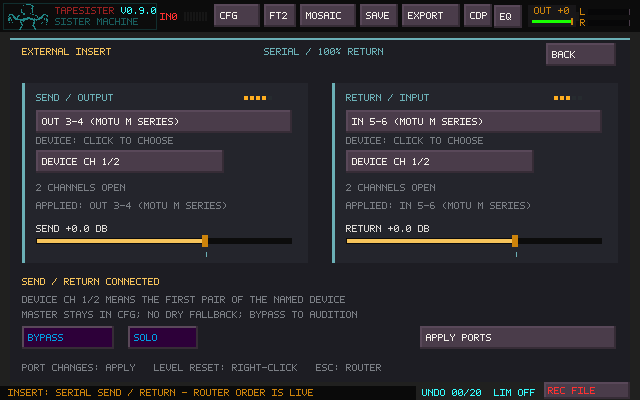
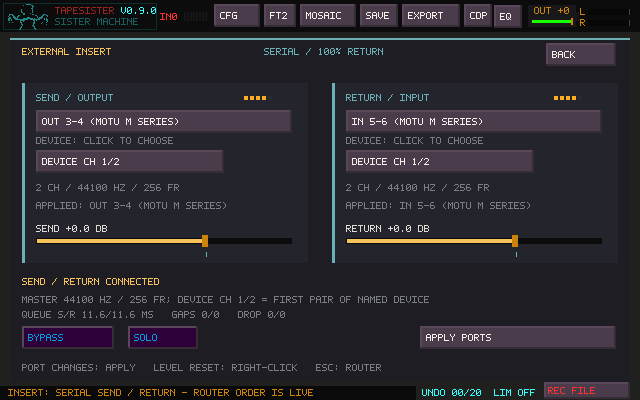
Size Insert queues for both callback bursts and expose stream diagnostics

diff --git a/src/ts_insert.c b/src/ts_insert.c
@@ -27,6 +27,8 @@ void ts_insert_init(TsInsert *s)
     atomic_init(&s->port_ack, 0);
     atomic_init(&s->monitor_port_ack, 0);
     atomic_init(&s->input_channels, 0);
+    atomic_init(&s->return_buffer_frames, 0);
+    atomic_init(&s->output_buffer_frames, 0);
     s->send_gain = s->return_gain = s->send_target = s->return_target = 1;
     ts_insert_prepare(s, 48000);
 }
@@ -37,6 +39,30 @@ void ts_insert_prepare(TsInsert *s, unsigned rate)
     s->sample_rate = rate;
     s->decay = expf(-1.0f / (rate * .15f));
     s->slew = 1.0f - expf(-1.0f / (rate * .01f));
+}
+
+static unsigned bridge_prime(unsigned producer_frames, unsigned consumer_frames,
+                             unsigned producer_rate, unsigned consumer_rate)
+{
+    /* The ring is measured at the producer rate. Either callback may be the
+       larger burst, regardless of the requested buffer size. Two bursts cover
+       their scheduling phase and one late delivery without four-block latency. */
+    uint64_t demand = consumer_rate ?
+        ((uint64_t)consumer_frames * producer_rate + consumer_rate - 1u) / consumer_rate : 0;
+    uint64_t burst = producer_frames > demand ? producer_frames : demand;
+    return burst > TS_INPUT_MONITOR_MAX_PRIME_FRAMES / 2u ?
+        TS_INPUT_MONITOR_MAX_PRIME_FRAMES : (unsigned)burst * 2u;
+}
+
+void ts_insert_begin_output_block(TsInsert *s, unsigned frames)
+{
+    atomic_store_explicit(&s->output_buffer_frames, frames, memory_order_release);
+    unsigned rate = atomic_load_explicit(&s->return_monitor.input_rate, memory_order_acquire);
+    unsigned capture = atomic_load_explicit(&s->return_buffer_frames, memory_order_acquire);
+    ts_input_monitor_set_prime_frames(&s->return_monitor,
+        bridge_prime(capture, frames, rate, s->sample_rate));
+    if (s->separate_send && s->send_channels)
+        ts_input_monitor_note_capture_block(&s->send_monitor, frames);
 }
 
 void ts_insert_set(TsInsert *s, const TsInsertControls *c)
@@ -68,8 +94,15 @@ void ts_insert_capture_prepare_from(TsInsert *s, unsigned channels,
     atomic_store_explicit(&s->input_channels, 0, memory_order_release);
     atomic_store_explicit(&s->return_monitor.enabled, 0, memory_order_release);
     atomic_store_explicit(&s->return_monitor.input_rate, rate, memory_order_release);
+    atomic_store_explicit(&s->return_buffer_frames, buffer_frames, memory_order_release);
     ts_input_monitor_set_prime_frames(&s->return_monitor,
-        ts_input_monitor_recommended_prime_frames(buffer_frames));
+        bridge_prime(buffer_frames, atomic_load_explicit(&s->output_buffer_frames,
+            memory_order_acquire), rate, s->sample_rate));
+    atomic_store(&s->return_monitor.underrun_count, 0);
+    atomic_store(&s->return_monitor.dropped_frame_count, 0);
+    atomic_store(&s->return_monitor.capture_callback_count, 0);
+    atomic_store(&s->return_monitor.captured_frame_count, 0);
+    atomic_store(&s->return_monitor.largest_capture_block_frames, 0);
     unsigned request=atomic_load_explicit(&s->port_request,memory_order_relaxed);
     atomic_store_explicit(&s->port_request,request+8u,memory_order_release);
     atomic_store_explicit(&s->return_monitor.enabled, channels >= 2, memory_order_release);
@@ -91,6 +124,8 @@ void ts_insert_capture_from(TsInsert *s, const float *input, size_t frames,
     atomic_store_explicit(&s->port_ack, request, memory_order_release);
     if (!port || port * 2u > channels) return;
     unsigned first = (port - 1u) * 2u;
+    if (frames > atomic_load_explicit(&s->return_buffer_frames, memory_order_relaxed))
+        atomic_store_explicit(&s->return_buffer_frames, (unsigned)frames, memory_order_release);
     ts_input_monitor_note_capture_block(&s->return_monitor, (uint32_t)frames);
     for (size_t i = 0; i < frames; ++i) {
         TsStereoFrame sample = {input[i * channels + first], input[i * channels + first + 1]};
@@ -186,9 +221,9 @@ void ts_insert_send_prepare(TsInsert *s, unsigned channels, unsigned rate, unsig
 {
     s->send_channels = channels >= 2 && channels <= TS_INSERT_MAX_CHANNELS ? channels : 0;
     ts_input_monitor_set_enabled(&s->send_monitor, s->send_channels != 0, rate);
-    unsigned prime = buffer_frames > TS_INPUT_MONITOR_MAX_PRIME_FRAMES / 2 ?
-        TS_INPUT_MONITOR_MAX_PRIME_FRAMES : buffer_frames * 2;
-    ts_input_monitor_set_prime_frames(&s->send_monitor, prime);
+    atomic_store_explicit(&s->output_buffer_frames, buffer_frames, memory_order_release);
+    ts_input_monitor_set_prime_frames(&s->send_monitor,
+        bridge_prime(buffer_frames, 0, rate, rate));
     ts_input_monitor_discard(&s->send_monitor);
     unsigned generation = (atomic_load(&s->send_request) & ~7u) + 8u;
     atomic_store_explicit(&s->send_request, generation | (unsigned)s->controls.send_pair, memory_order_release);
@@ -197,6 +232,10 @@ void ts_insert_send_prepare(TsInsert *s, unsigned channels, unsigned rate, unsig
 void ts_insert_render_send(TsInsert *s, float *out, size_t frames, unsigned channels, unsigned rate)
 {
     memset(out, 0, frames * channels * sizeof(*out));
+    unsigned producer_rate = atomic_load_explicit(&s->send_monitor.input_rate, memory_order_acquire);
+    unsigned producer_frames = atomic_load_explicit(&s->output_buffer_frames, memory_order_acquire);
+    ts_input_monitor_set_prime_frames(&s->send_monitor,
+        bridge_prime(producer_frames, (unsigned)frames, producer_rate, rate));
     unsigned request = atomic_load_explicit(&s->send_request, memory_order_acquire);
     if (request != s->send_seen) {
         ts_input_monitor_discard(&s->send_monitor);

diff --git a/tests/test_insert.c b/tests/test_insert.c
@@ -144,6 +144,85 @@ static void independent_clocks(void)
     assert(atomic_load(&s.send_monitor.dropped_frame_count)==0);
 }
 
+/* Schedule real-sized callback bursts on independent clocks. A constant/DC
+   source hides dropouts: two different tones let us check continuity, stereo
+   isolation and sustained energy as well as the FIFO's underrun counters. */
+static double callback_time(unsigned index,unsigned frames,unsigned rate,double drift)
+{
+    double late=index%97==40?.75:0; /* one late block followed by catch-up */
+    return (index+late)*frames/(rate*drift);
+}
+
+static void check_tone(TsStereoFrame f,TsStereoFrame *last,double time)
+{
+    assert(isfinite(f.l) && isfinite(f.r));
+    if(time>1) {
+        assert(fabsf(f.l-last->l)<.025f && fabsf(f.r-last->r)<.035f);
+        /* The source channels are opposite polarity; resampling keeps them so. */
+        assert(fabsf(f.l+f.r)<.0001f);
+    }
+    *last=f;
+}
+
+static void callback_bursts(void)
+{
+    const unsigned cases[][6]={
+        {48000,1024,48000,128,48000,128},
+        {48000,512,48000,512,48000,512},
+        {48000,1024,48000,1024,48000,1024},
+        {48000,512,44100,128,96000,1024},
+        {44100,256,48000,512,32000,128}
+    };
+    for(unsigned test=0;test<sizeof(cases)/sizeof(cases[0]);++test) {
+        const unsigned *c=cases[test];TsInsert s;ts_insert_init(&s);ts_insert_prepare(&s,c[0]);
+        ts_insert_io_mode(&s,1,1);TsInsertControls ports={1,0,0,0};ts_insert_set(&s,&ports);
+        ts_insert_send_prepare(&s,2,c[0],c[1]);ts_insert_capture_prepare_from(&s,2,c[4],c[5],1);
+        unsigned blocks[3]={0},produced[2]={0};float returned[2048],sent[2048],master[2];
+        TsStereoFrame previous_return={0},previous_send={0};
+        for(;;) {
+            double times[]={blocks[0]*(double)c[1]/c[0],
+                callback_time(blocks[1],c[3],c[2],1.0003),
+                callback_time(blocks[2],c[5],c[4],.9997)};
+            int side=times[1]<times[0]?1:0;if(times[2]<times[side])side=2;
+            double time=times[side];if(time>12)break;++blocks[side];
+            double energy=0;
+            if(side==0) {
+                ts_insert_begin_output_block(&s,c[1]);
+                for(unsigned i=0;i<c[1];++i) {
+                    float v=.3f*sinf(6.2831853f*220*produced[0]++/c[0]);
+                    TsStereoFrame f=ts_insert_process(&s,(TsStereoFrame){v,-v},1);
+                    ts_insert_write_output(&s,master,2,f);
+                    check_tone(f,&previous_return,time);energy+=f.l*f.l;
+                }
+                if(time>1)assert(energy/c[1]>.015);
+            } else if(side==1) {
+                ts_insert_render_send(&s,sent,c[3],2,c[2]);
+                for(unsigned i=0;i<c[3];++i) {
+                    TsStereoFrame f={sent[i*2],sent[i*2+1]};
+                    check_tone(f,&previous_send,time);energy+=f.l*f.l;
+                }
+                if(time>1)assert(energy/c[3]>.015);
+            } else {
+                for(unsigned i=0;i<c[5];++i) {
+                    returned[i*2]=.3f*sinf(6.2831853f*331*produced[1]++/c[4]);
+                    returned[i*2+1]=-returned[i*2];
+                }
+                ts_insert_capture_from(&s,returned,c[5],2,1);
+            }
+        }
+        TsInputMonitorDiagnostics send,ret;
+        ts_input_monitor_get_diagnostics(&s.send_monitor,&send);
+        ts_input_monitor_get_diagnostics(&s.return_monitor,&ret);
+        printf("callback bursts: Master %u/%u SEND %u/%u RETURN %u/%u; gaps %u/%u drops %u/%u\n",
+            c[0],c[1],c[2],c[3],c[4],c[5],send.underrun_count,ret.underrun_count,
+            send.dropped_frame_count,ret.dropped_frame_count);
+        assert(!send.underrun_count && !ret.underrun_count);
+        assert(!send.dropped_frame_count && !ret.dropped_frame_count);
+        /* Matching streams now need two blocks, not four capture blocks. */
+        if(test==1 || test==2)assert(ret.prime_frames==2*c[1]);
+    }
+}
+
 static void isolation_and_persistence(void)
 {
     TsInsert insert;prepare(&insert,8000);
@@ -215,6 +294,6 @@ static void sister_serial_monitor(void)
 
 int main(void)
 {
-    all_orders(0);all_orders(1);levels_failures_and_solo();independent_clocks();isolation_and_persistence();sister_serial_monitor();
+    all_orders(0);all_orders(1);levels_failures_and_solo();independent_clocks();callback_bursts();isolation_and_persistence();sister_serial_monitor();
     puts("Insert I/O boundary, safety, monitor isolation and compatibility passed");return 0;
 }

diff --git a/src/main_sdl.c b/src/main_sdl.c
@@ -976,6 +976,7 @@ static void audio_callback(void *userdata, Uint8 *stream, int bytes)
                                  live_link_frames,
                                  (uint32_t)audio->output_rate);
     ts_sister_runtime_begin_audio_block(&audio->sister);
+    ts_insert_begin_output_block(&audio->sister.insert, (unsigned)frames);
     for (int i = 0; i < values; i += 2) {
         audio->sister.insert.send=(TsStereoFrame){0,0};
         TsAudioBuses buses;
@@ -13108,6 +13109,7 @@ int main(int argc, char **argv)
                     input_snapshot.captured_frame_count,
                     input_snapshot.largest_capture_block_frames,
                     input_snapshot.correction_ppm);
+            ts_audio_insert_diagnostics(&audio,&ui,1);
             last_audio_diagnostic_log = SDL_GetTicks();
         }
         while (SDL_PollEvent(&event)) {
@@ -17041,6 +17043,7 @@ int main(int argc, char **argv)
                 routing.limiter_gain_reduction_db;
             ui.master_output.gain = routing.master_output_gain;
         }
+        if(ui.insert_open)ts_audio_insert_diagnostics(&audio,&ui,0);
         ui.text_cursor_visible = ((SDL_GetTicks() / 500u) & 1u) == 0u;
         sister_window.model.text_cursor_visible = ui.text_cursor_visible;
         poll_import_playback(device,&audio,&ui,&import_controller);

diff --git a/include/tapesister/insert.h b/include/tapesister/insert.h
@@ -23,6 +23,7 @@ typedef struct {
     /* Capture acknowledges a new port before playback discards old samples.
        Only the consumer advances its read cursor; no concurrent FIFO reset. */
     _Atomic unsigned port_request, port_ack, monitor_port_ack, input_channels;
+    _Atomic unsigned return_buffer_frames, output_buffer_frames;
     unsigned port_seen, output_channels, sample_rate;
     float send_gain, return_gain, send_target, return_target, slew;
     float send_peak, return_peak, decay;
@@ -33,6 +34,9 @@ void ts_insert_default(TsInsertControls *controls);
 int ts_insert_valid(const TsInsertControls *controls);
 void ts_insert_init(TsInsert *insert);
 void ts_insert_prepare(TsInsert *insert, unsigned sample_rate);
+/* Master callback, before processing its frames. Sizes the RETURN bridge in
+   capture-rate frames and publishes the producer burst size for separate SEND. */
+void ts_insert_begin_output_block(TsInsert *insert, unsigned frames);
 /* Control changes require the playback callback to be excluded. */
 void ts_insert_set(TsInsert *insert, const TsInsertControls *controls);
 /* Control thread, with the capture producer stopped/excluded. Playback may run. */

diff --git a/include/tapesister/ui.h b/include/tapesister/ui.h
@@ -446,6 +446,9 @@ typedef struct {
     char insert_send_device[TS_CONFIG_PATH_MAX], insert_return_device[TS_CONFIG_PATH_MAX];
     char insert_device_status[160];
     float insert_send_peak, insert_return_peak;
+    unsigned insert_rates[2], insert_buffers[2], insert_gaps[2], insert_drops[2];
+    float insert_queue_ms[2];
+    unsigned insert_master_rate, insert_master_buffer;
     unsigned router_enabled;
     float router_peaks[TS_ROUTER_COUNT*2+2];
     size_t capture_recorded_frames;

diff --git a/docs/USER_MANUAL.md b/docs/USER_MANUAL.md
@@ -1378,7 +1378,9 @@ channel-pair selectors for each device. Left-click cycles forward; right-click
 cycles backward. Click **APPLY PORTS**, and use **CFG → SAVE CONFIG** to remember
 device choices. Changes are refused during recording; levels, bypass and solo
 remain available while playing. Saved unavailable choices are never reassigned
-silently. **CHANNELS OPEN** reports the applied stream, not the pending choice.
+silently. **CH / HZ / FR** reports the applied channel count, sample rate and
+device buffer in frames, not the pending choice. Master's active rate and buffer
+appear below the connection status.
 
 ![External Insert ports and levels](images/external-insert.png)
 
@@ -1440,16 +1442,41 @@ Fallout feedback taps are held upstream of the monitor merge/external loop;
 this feature does not create an external feedback return.
 
 **Latency:** shared-device SEND adds no separate queue. A separate SEND uses a
-stereo FIFO with rate conversion and clock-drift handling; it primes twice the
-larger of the configured Master and obtained SEND buffer sizes, measured in
-Master-rate frames (bounded 128–4096). RETURN uses the same rate-conversion and
-clock-drift machinery, with four capture blocks of priming (also 128–4096 frames).
-At 48 kHz with matching 256/512/1024-frame buffers, separate SEND primes about
-11/21/43 ms and RETURN about 21/43/85 ms, in addition to device and external
-processing latency. Reconfiguration discards stale audio and reprimes. There is
+stereo FIFO with rate conversion and clock-drift handling. Both SEND and RETURN
+target two of the larger producer/consumer callback bursts, converting their
+durations to the FIFO's source sample rate (bounded 128–4096 frames). RETURN
+accounts for Master's actual callback size even if the capture driver delivers
+smaller blocks; SEND likewise accounts for the actual auxiliary output callback.
+At 48 kHz with matching 256/512/1024-frame buffers, each queue targets about
+11/21/43 ms, in addition to device and external processing latency. **QUEUE S/R**
+shows those priming targets, not a measured round-trip delay. Reconfiguration
+discards stale audio and reprimes. There is
 no automatic round-trip compensation. Bypass crossfades over about 10 ms; its
 brief transition can blend paths with different delays. Steady active INSERT is
 entirely returned audio. Reordering retains the Router's short fade through zero.
+
+**Troubleshooting delayed or crackling returns:**
+
+- A tile marked **44100 HZ** describes its sample data. TapeSister requests
+  **48000 Hz** playback and resamples tiles to the obtained stream rate. Check
+  the Insert panel's live rates before changing the interface clock. For an
+  interface already running at 48 kHz, start with the external app explicitly
+  set to 48 kHz too.
+- **GAPS S/R** counts queue underruns; **DROP S/R** counts discarded overflow
+  frames. Watch for increases while listening. Applying/reopening devices resets
+  these counters. They diagnose TapeSister's bridges, not every driver or external
+  app dropout. `--diagnostic-audio` adds detailed SEND/RETURN queue measurements
+  to `tapesister-diagnostic.log` every five seconds.
+- Test one direct physical cable loop from TapeSister SEND to RETURN, bypassing
+  the external application. If that is clean, restore the application's loop
+  with its effects bypassed, then enable processing. This separates TapeSister's
+  I/O path from the extra application's buffers and processing.
+- Monitor only the final Master path while testing. Keep return inputs out of
+  direct-monitor mixes feeding the send; watch levels for clipping. Larger
+  buffers add latency and cannot correct routing feedback or a rate/driver issue.
+- In the external app, Auto does not identify the actual driver. If choosing
+  MOTU ASIO there, first verify that the driver permits it alongside TapeSister's
+  Windows backend. TapeSister itself currently has no ASIO selector.
 
 **Backend limits:** Master, a separate SEND, the ordinary CFG input and a separate
 RETURN can use different endpoints within the selected SDL backend. Insert

diff --git a/docs/SISTER_MACHINE_AUDIO_BUSES.md b/docs/SISTER_MACHINE_AUDIO_BUSES.md
@@ -153,8 +153,13 @@ EXT selection, with playback gated until queued pre-reservation samples are
 flushed under device locks. Raw EXT recording remains an earlier source tap.
 
 Both FIFOs reuse stereo rate conversion and clock-drift correction. Separate
-SEND primes twice the larger Master-configured/SEND-obtained buffer in Master-rate
-frames; RETURN primes four capture blocks (each bounded 128–4096 frames). Return
+SEND and RETURN target twice the larger producer/consumer callback duration,
+converted to producer-rate frames (bounded 128–4096). The Master callback
+publishes its actual burst size; RETURN tracks capture bursts, and the SEND
+callback accounts for its own obtained rate and actual frame count. This avoids
+repeated starvation when capture blocks are smaller than playback blocks.
+The Insert panel reports applied stream rates/buffers, queue targets and
+underrun/overflow counters; `--diagnostic-audio` logs both FIFO diagnostics. Return
 port-generation acknowledgement precedes consumer discard. SEND's consumer
 similarly discards old queued frames on reassignment. FIFO index resets require
 their producer and consumer callbacks excluded; no callback allocates or opens

diff --git a/docs/WINDOWS_AUDIO_VALIDATION.md b/docs/WINDOWS_AUDIO_VALIDATION.md
@@ -54,7 +54,11 @@ rates/buffers.
   MIX/head taps. Check their documented positions. Apply Ports must be refused
   during a take; bypass/solo and gain adjustments remain usable.
 - [ ] Measure/listen to the external round trip at 256/512/1024 buffers, with matching
-  and mismatched capture/playback rates. RETURN adds four capture blocks of priming; independent SEND adds two buffers.
+  and mismatched capture/playback rates. RETURN and independent SEND each target
+  two of the larger callback bursts, converted to their FIFO's source rate.
+  Check the applied HZ/FR and QUEUE S/R readouts; monitor GAPS/DROP for increases.
+  Compare a direct SEND-to-RETURN cable loop with the SunVox loop at explicit
+  48 kHz, and record the actual SunVox driver (Auto alone does not identify it).
   There is no automatic latency compensation or separate ASIO backend.
 - [ ] Inspect compact EQ and Insert panels at normal/maximized/high-DPI sizes.
   EQ OUT/Router controls must not overlap; REC and IN must not be drawn together;

diff --git a/docs/QUICK_REFERENCE.md b/docs/QUICK_REFERENCE.md
@@ -450,7 +450,8 @@ sound presets preserve routing. [Full behavior](USER_MANUAL.md#global-router).
 - Missing return stays silent while active. A shared RETURN pair is excluded from
   ordinary EXT monitoring; a separate RETURN leaves CFG's input available.
 - Stereo pairs within exposed 2–8-channel endpoints; one backend, no ASIO host.
-  Separate SEND primes two buffers; RETURN primes four capture buffers. No latency
+  Separate SEND and RETURN target two of their larger producer/consumer bursts,
+  converted to each queue's source rate. Live HZ/FR and GAPS/DROP help diagnose I/O. No latency
   compensation. Device names persist across loss/recovery without fallback.
 - FILE OUT and Mosaic REC OUT include the returned signal. Earlier source/head
   taps retain their named position. [Setup and limits](USER_MANUAL.md#external-insert).

diff --git a/README.md b/README.md
@@ -205,6 +205,8 @@ separate capture device. This supports interfaces exposed as separate stereo
 endpoints: for an M6, choose SEND `Out 3-4` and RETURN `In 5-6`, each using its
 local **DEVICE CH 1/2**. An active Insert with a missing return stays silent until
 you bypass it. [Setup, buffering and limits](docs/USER_MANUAL.md#external-insert).
+The panel shows actual stream rates/buffers, queue targets, and SEND/RETURN
+dropout counters. Tile sample rates can differ from the live device rate.
 
 ## Four-slot FX pedalboard
 
